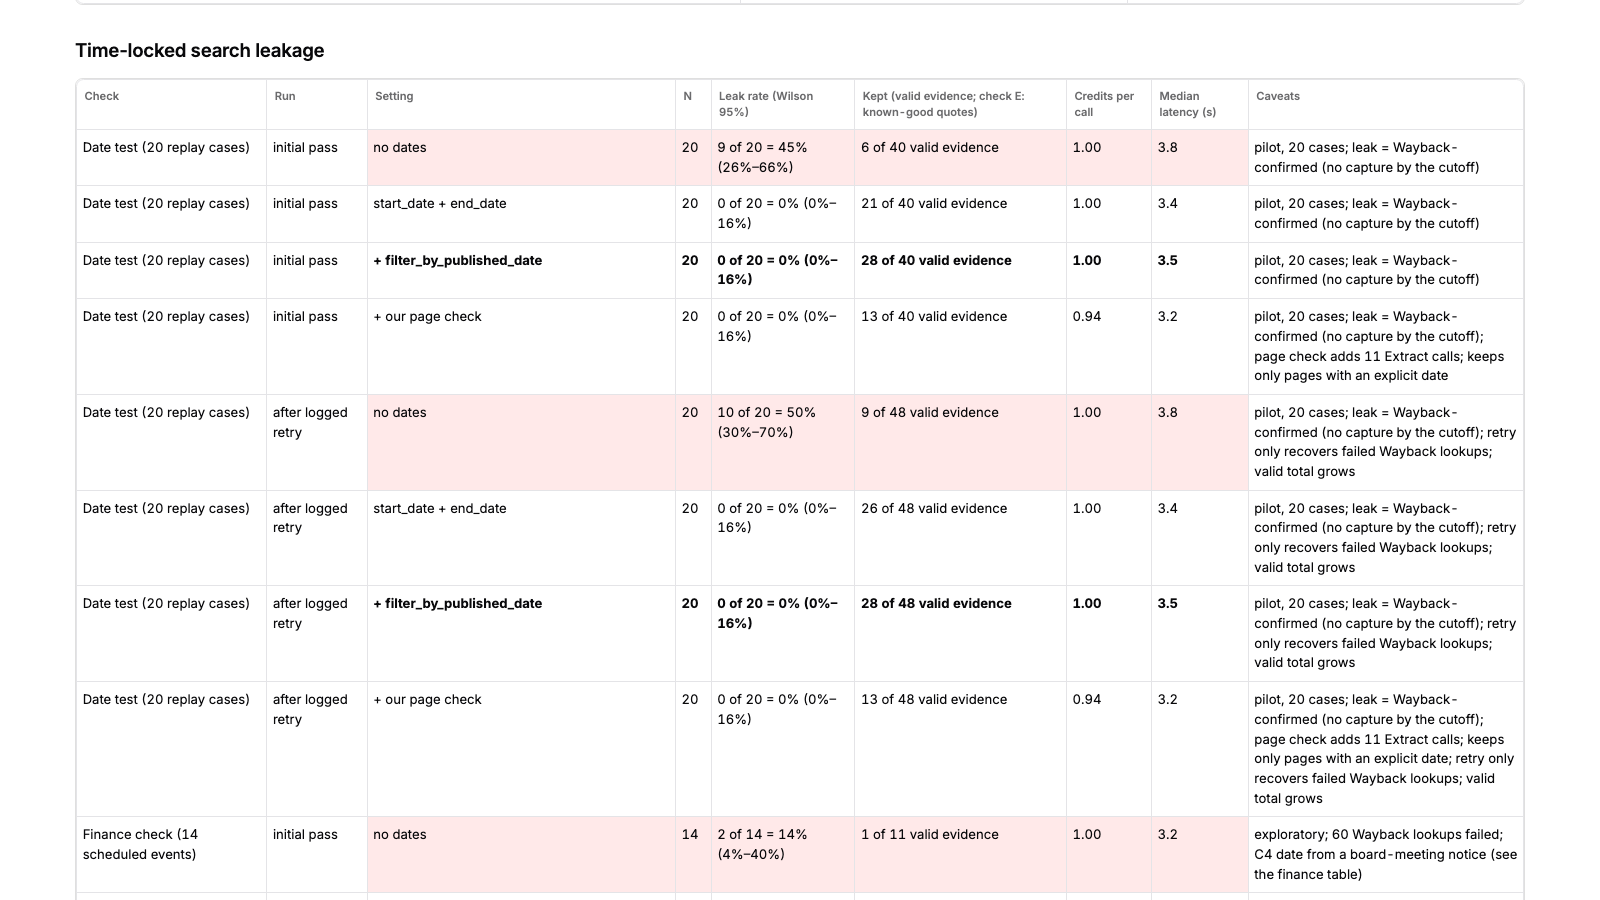
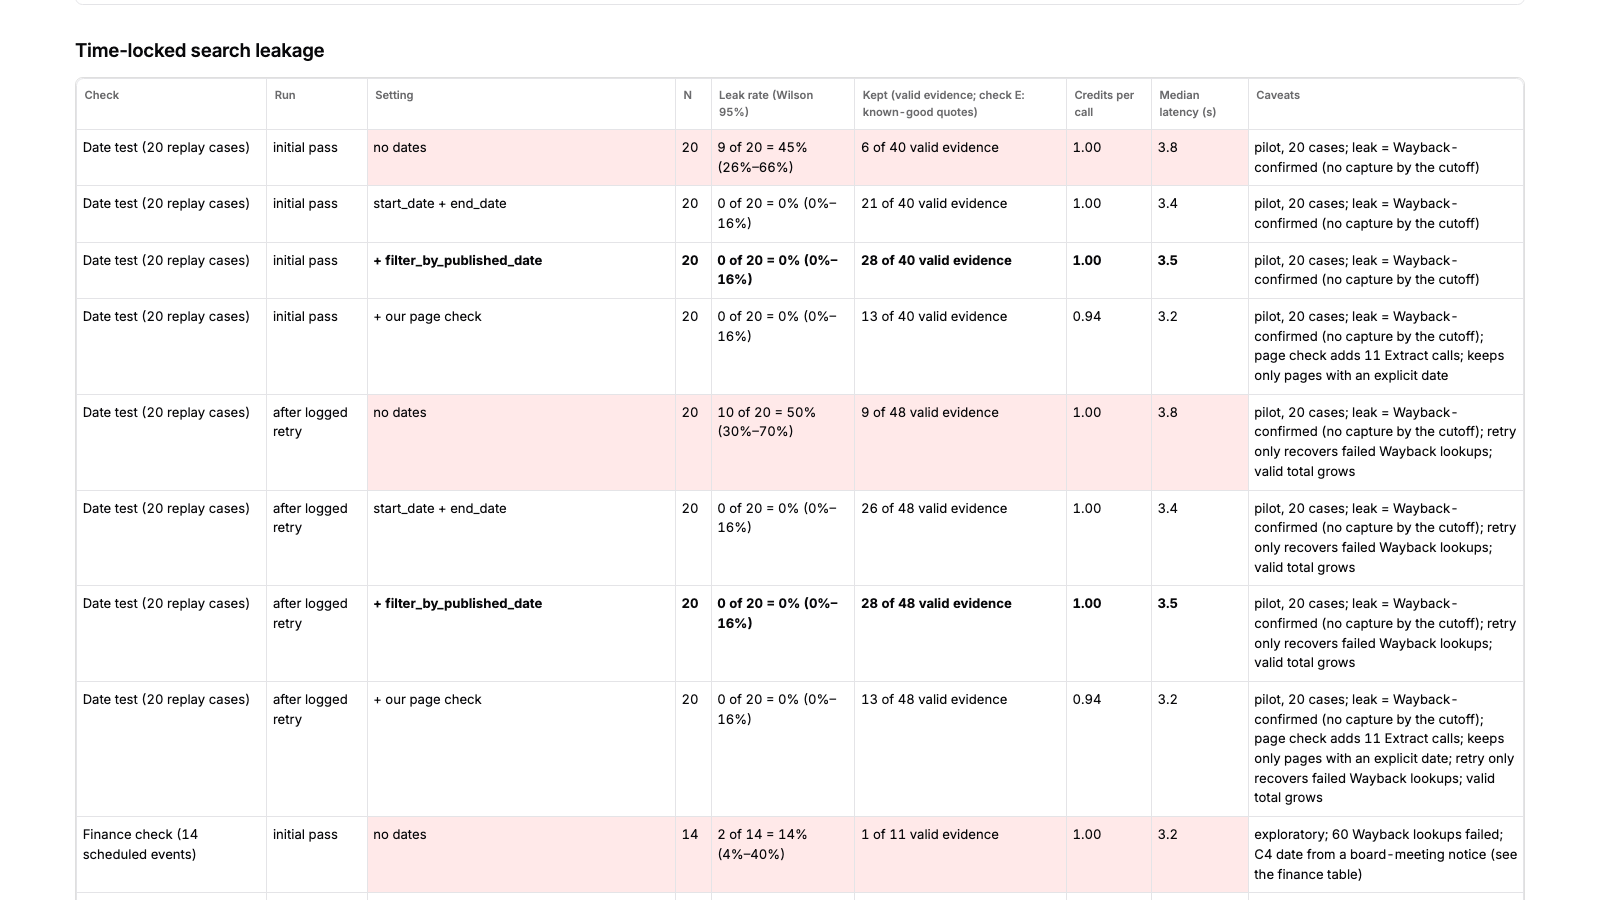
Display/docs fixes: Leak demo cost card shows the date test's own cost (12 of 40 valid evidence dropped, initial pass, results/date_field_test.json arm C) instead of check E; Devpost headline, short description and gallery caption reworded (pilot, after a logged archive retry; confirmed leak defined
No results file changed. New test: the hero cost card equals the date-test field, not check E.

diff --git a/app_pages/leak_demo.py b/app_pages/leak_demo.py
@@ -1,7 +1,7 @@
 """Leak demo (the home page): can a web search see the future? Past questions replayed as of a cutoff date, each
 searched with no time lock and with Tavily's time lock. Built only from saved results (results/leak_demo.json, made
 offline by tools/build_leak_demo.py from the date test and the finance check; totals from results/field_report.json
-and results/leakcheck_exact_match.json). The only API calls are the optional live mode, off unless RUN_LIVE_ENABLED."""
+and results/leakcheck_exact_match.json; the hero's cost from results/date_field_test.json). The only API calls are the optional live mode, off unless RUN_LIVE_ENABLED."""
 import re
 from datetime import date, timedelta
 
@@ -220,21 +220,31 @@ html, body {{ margin: 0; background: transparent; color: var(--ink); font: 500 1
 </script></body></html>"""
 
 
+DATE_TEST = "results/date_field_test.json"
+DATE_LOCKED_ARM = "C"                         # tools/build_leak_demo.py TESTS["date"]["locked"]
+
+
+def date_test_cost():
+    """The date test's own cost of the time lock, initial pass: valid evidence the locked arm dropped (not check E)."""
+    arm = read_json(DATE_TEST)["metrics"]["arms"][DATE_LOCKED_ARM]
+    return int(arm["valid_lost"]), int(arm["valid_total"])
+
+
 def hero(t):
-    """One titled row (date test, after retry): 'x/n → y/n' cases leaked, then the cost of the time lock (check E),
-    all from the results files, counted up once."""
+    """One titled row (date test): 'x/n → y/n' cases leaked (after retry), then the date test's own cost of the time
+    lock (initial pass), all from the results files, counted up once."""
     import html
-    d, s = t["date"], t["strictness"]
+    d = t["date"]
     o, k, n = int(d["open"]["retry"]), int(d["locked"]["retry"]), int(d["cases"])
-    missed, quotes = int(s["missed"]), int(s["quotes"])
+    missed, quotes = date_test_cost()
     leaked = "cases leaked (after retry)"
     st.iframe(HERO_HTML.format(
         font=HERO_FONT, js=ANIME_JS[0], sri=ANIME_JS[1], open=o, locked=k, n=n, missed=missed, quotes=quotes,
         title=html.escape(f"Date test · {n} past cases"),
         open_label=html.escape(f"{OPEN}: {leaked}"), locked_label=html.escape(f"{LOCKED}: {leaked}"),
-        cost_label="Cost: valid evidence dropped",
+        cost_label="Cost: valid evidence dropped (initial pass)",
         aria=html.escape(f"Date test, {n} past cases. {OPEN}: {o}/{n} {leaked}. {LOCKED}: {k}/{n}. "
-                         f"Cost: {missed} of {quotes} valid evidence dropped.")),
+                         f"Cost: {missed} of {quotes} valid evidence dropped (initial pass).")),
         height=HERO_HEIGHT)
 
 

diff --git a/tests/test_leak_demo.py b/tests/test_leak_demo.py
@@ -189,14 +189,31 @@ def test_web_titles_cannot_inject_markdown():
 # ---------- ui-polish / look: hero row, default examples, text badges ----------
 def test_hero_row_reads_the_results_file_and_is_not_repeated():
     at = page()
-    d, s = DATA["totals"]["date"], DATA["totals"]["strictness"]
+    d = DATA["totals"]["date"]
+    c = json.loads((ROOT / "results" / "date_field_test.json").read_text())["metrics"]["arms"]["C"]
     (frame,) = at.get("iframe")
     html = frame.proto.srcdoc
     assert f"Date test · {d['cases']} past cases" in html
     assert (f"No time lock: {d['open']['retry']}/{d['cases']} cases leaked (after retry). Tavily time lock: "
-            f"{d['locked']['retry']}/{d['cases']}. Cost: {s['missed']} of {s['quotes']} valid evidence dropped."
-            ) in html                              # the hero's accessible label
+            f"{d['locked']['retry']}/{d['cases']}. Cost: {c['valid_lost']} of {c['valid_total']} valid evidence "
+            "dropped (initial pass).") in html     # the hero's accessible label
     assert not any(m.value.startswith("**No time lock:") for m in at.markdown)
+
+
+def test_hero_cost_is_the_date_tests_own_field_not_check_e():
+    """The cost card on the date-test row shows the date test's valid evidence dropped (locked arm C, initial pass),
+    not check E's known-good quotes missed."""
+    import re
+    c = json.loads((ROOT / "results" / "date_field_test.json").read_text())["metrics"]["arms"]["C"]
+    s = DATA["totals"]["strictness"]
+    (frame,) = page().get("iframe")
+    card = re.search(r'id="cost"><div class="num">(\d+)/(\d+)</div><div class="label">([^<]+)<',
+                     frame.proto.srcdoc)
+    assert card and (int(card[1]), int(card[2])) == (c["valid_lost"], c["valid_total"])
+    assert card[3] == "Cost: valid evidence dropped (initial pass)"
+    if (s["missed"], s["quotes"]) != (c["valid_lost"], c["valid_total"]):
+        assert f"{s['missed']}/{s['quotes']}" not in card[0]
+    assert "C" == __import__("tools.build_leak_demo", fromlist=["TESTS"]).TESTS["date"]["locked"]
 
 
 def test_default_examples_follow_the_rule_f3_first_r1_out():

diff --git a/tests/test_aesthetic.py b/tests/test_aesthetic.py
@@ -91,11 +91,14 @@ def test_style_is_injected_once_and_takes_no_layout():
 # ---------- the hero ----------
 def test_hero_numbers_come_from_the_results_files():
     _, html = hero_html()
-    d, s = DATA["totals"]["date"], DATA["totals"]["strictness"]
+    d = DATA["totals"]["date"]
+    c = json.loads((ROOT / "results" / "date_field_test.json").read_text())["metrics"]["arms"]["C"]
     o, k, n = d["open"]["retry"], d["locked"]["retry"], d["cases"]
     assert f'<span id="leaked">{o}</span>/{n}' in html and f">{k}/{n}<" in html
     shown = re.findall(r"<span id=\"leaked\">(\d+)</span>/(\d+)|>(\d+)/(\d+)<", html)
-    assert shown == [(str(o), str(n), "", ""), ("", "", str(k), str(n)), ("", "", str(s["missed"]), str(s["quotes"]))]
+    # the cost card is the date test's own valid evidence dropped (locked arm C, initial pass), not check E
+    assert shown == [(str(o), str(n), "", ""), ("", "", str(k), str(n)),
+                     ("", "", str(c["valid_lost"]), str(c["valid_total"]))]
     # the same counts the Field Report reads (results/field_report.json, date test, after the logged retry)
     assert d["source"].startswith("results/field_report.json")
 

diff --git a/docs/devpost_draft.md b/docs/devpost_draft.md
@@ -6,8 +6,8 @@
 
 ## Headline
 <!-- headline:start -->
-Pre-registered pilot, no dates: 10 of 20 replay cases read a page that did not yet exist at the cutoff; with Tavily's dates and `filter_by_published_date`, 0 of 20.
-Reuse `timelocked_search`, `extract_as_of`, or the Colab leak check (your own Tavily key).
+Pilot, after a logged archive retry: no dates, 10 of 20 past cases kept a confirmed leak (page dated after the cutoff, no archive copy before it); Tavily's dates and `filter_by_published_date`, 0 of 20.
+Reuse: `timelocked_search`, `extract_as_of`, Colab leak check.
 <!-- headline:end -->
 
 ## Tagline
@@ -17,9 +17,10 @@ quote on its source page, and seals India's inflation forecast before the govern
 ## Short description
 <!-- short:start -->
 Can a search engine keep the past in the past? We measured Tavily's date controls on 20 replay cases
-(pilot, pre-registered). With no dates, 10 of 20 cases read a page that did not yet exist
-at the cutoff (Wilson 95% 30–70%); with `start_date`/`end_date` and `filter_by_published_date`,
-0 of 20 (0–16%), after a logged archive retry. The cost: the filter dropped
+(pilot; counts after a logged archive retry). With no dates, 10 of 20 cases kept a
+confirmed leak, a page dated after the cutoff with no archive copy before it (Wilson 95%
+30–70%); with `start_date`/`end_date` and `filter_by_published_date`, 0 of
+20 (0–16%). The cost: the filter dropped
 12 of 40 pieces of valid evidence. Search dates do not freeze page content: a page
 dated before the cutoff can be updated after it. Shadow CPI puts this to work: an AI agent searches with Tavily
 inside a time lock, checks each quote against the extracted page with NVIDIA Nemotron on Nebius Token Factory, lets
@@ -28,7 +29,7 @@ code compute India's October 2026 inflation nowcast, and seals it before the Min
 <!-- short:end -->
 
 ## The leak, measured
-- **Main result (date test, a pre-registered pilot; counts after the logged archive retry):** no dates, 10
+- **Main result (date test, a pilot with a pre-registered design; counts after the logged archive retry):** no dates, 10
   of 20 cases leaked (Wilson 95% 30–70%); `start_date`/`end_date` +
   `filter_by_published_date`, 0 of 20 (0–16%). Initial pass (the pre-registered result, shown as sensitivity):
   9 of 20 (26–66%) and 0 of 20 (0–16%); the retry only
@@ -83,7 +84,7 @@ the finance check returned a result dated after the cutoff; that review found 1 
 version leaks the outcome. What covers the gap, partly: our page-date check (kept 26 of
 59 filtered results in the date test; date-test valid evidence lost: 27 of
 40 with it, 12 with the filter alone); the drift monitor, which re-reads October radar
-pages daily (no drift run is committed yet, as of 28 Oct 2026); and Wayback Machine checks, with failed lookups retried and logged
+pages daily (14 of 62 radar pages had changed since they were saved (one run, 28 Oct 2026 IST)); and Wayback Machine checks, with failed lookups retried and logged
 (11 in the date test, 94 in the finance check).
 
 ## Who writes the search: model-written fields vs fixed templates, inside a time lock it cannot move
@@ -205,7 +206,7 @@ worked on the opening call, and both sizes sit behind one OpenAI-compatible endp
   next-working-day rule applies).
   Anyone can recompute the seal's `SHA-256` from the file at tag `seal-2026-10` (`verify.md`).
 - **Price Shock Radar** (exploratory, report only): announced price changes taking effect this month;
-  1 verified so far, 0 corroborated.
+  3 verified so far, 0 corroborated.
 - **Live build** with **Replay a saved run** (no API call, no credits).
 - **Chain of custody** from any number to its quote, page, Tavily request ID, response hash and seal; **`as_of()`**
   shows what was known on a past day.
@@ -240,7 +241,7 @@ start 10 days before the month, and v1's replay ran to month-end while the live 
 the score; a value-of-information score was dropped rather than tuned.
 A Hindi substring match ('rail' inside 'domestic') turned a Jharkhand power tariff into a 'Bihar rail' event. Our
 manual check caught it; the fix (whole-word matching, state from the page) removed the event, so the October radar
-has 1 event. Logged as rule changes `R2`–`R3`, with before and after.
+has 3 events. Logged as rule changes `R2`–`R3`, with before and after.
 Exploratory and post-hoc results are labelled where they appear and changed no scored verdict.
 
 ## Built with
@@ -254,8 +255,8 @@ Nebius retires the original IDs on 9 Nov 2026; from then, calls use Nebius's rec
 - Python
 - Streamlit
 
-Tavily usage as of 28 Oct 2026: 2,030 calls, 1,981 credits, 79% of dated results
-inside the requested window (5,454 of 6,872), median latency 4.0 s. Third-party notices:
+Tavily usage as of 28 Oct 2026: 2,073 calls, 2,021 credits, 79% of dated results
+inside the requested window (5,587 of 7,069), median latency 4.0 s. Third-party notices:
 `THIRD_PARTY_NOTICES.md`.
 
 ## Try it

diff --git a/README.md b/README.md
@@ -127,7 +127,7 @@ completely:
   27 of the date test's 40 pieces of valid evidence were lost (12 with the filter
   alone). It reads a page's date, not its edit history.
 - **The drift monitor** re-reads each October radar page with Extract once a day and compares it with the saved copy
-  ([`v2/DRIFT_PREREG.md`](v2/DRIFT_PREREG.md)): no drift run is committed yet, as of 28 Oct 2026.
+  ([`v2/DRIFT_PREREG.md`](v2/DRIFT_PREREG.md)): 14 of 62 radar pages had changed since they were saved (one run, 28 Oct 2026 IST).
 - **The Wayback Machine** shows whether a page existed by the cutoff; a leak counts only when it confirms one. Failed
   lookups were retried and logged (11 in the date test, 94 in the finance check). In
   the post-hoc review, 146 of 283 rows stayed unclear, partly because archive lookups were
@@ -349,8 +349,8 @@ made Hindi pages work. Details: [`FEEDBACK_NOTES.md`](FEEDBACK_NOTES.md).
   compare it with `sealed/2026-10.sha256` ([`verify.md`](verify.md)). After the release, the Archive page shows the
   miss and whether the official figure was inside the range.
 - **Price Shock Radar** (exploratory, report only; app page "October radar"): announced retail price changes taking
-  effect this month, found with Tavily before MoSPI publishes. So far 1 event verified,
-  0 corroborated, 70 of a 150-credit cap. It never changes the sealed call.
+  effect this month, found with Tavily before MoSPI publishes. So far 3 events verified,
+  0 corroborated, 95 of a 150-credit cap. It never changes the sealed call.
 - **Live build** with **Replay a saved run**: watch the number build one verified card at a time. Replays make no
   API call and cost no credits.
 - **Chain of custody:** from any number to its quote, page, page date, Tavily request ID, response hash and seal.
@@ -402,7 +402,7 @@ Jan–Sep 2026 replay, rules frozen before scoring ([`results/score_lock.json`](
   rather than tune it.
 - A Hindi substring match ('rail' inside 'domestic') turned a Jharkhand power tariff into a 'Bihar rail' event.
   Our manual check caught it; the fix (whole-word matching, state from the page) removed the event, so the October
-  radar has 1 event. Logged as rule changes `R2`–`R3`, with before and after
+  radar has 3 events. Logged as rule changes `R2`–`R3`, with before and after
   ([`v2/RADAR_PREREG.md`](v2/RADAR_PREREG.md)).
 
 More: [`docs/honest_limits.md`](docs/honest_limits.md), [`docs/frozen_rules.md`](docs/frozen_rules.md),
@@ -429,7 +429,7 @@ To run the pipeline, copy `.env.example` to `.env`, add the two keys, and start 
 `python tools/sync_doc_numbers.py` (template: [`docs/templates/README.md`](docs/templates/README.md)).
 
 Tavily usage so far (as of 28 Oct 2026, [`results/tavily_report_card.md`](results/tavily_report_card.md)):
-2,030 calls sent, 1,981 credits used (a 1,000-credit monthly plan plus 3,125
+2,073 calls sent, 2,021 credits used (a 1,000-credit monthly plan plus 3,125
 add-on credits), 79% of dated search results inside the requested window, median latency
 4.0 s.
 

diff --git a/docs/templates/devpost.md b/docs/templates/devpost.md
@@ -5,8 +5,8 @@
 
 ## Headline
 <!-- headline:start -->
-Pre-registered pilot, no dates: {{dt_nodates_retry}} of {{dt_cases}} replay cases read a page that did not yet exist at the cutoff; with Tavily's dates and `filter_by_published_date`, {{dt_dated_retry}} of {{dt_cases}}.
-Reuse `timelocked_search`, `extract_as_of`, or the Colab leak check (your own Tavily key).
+Pilot, after a logged archive retry: no dates, {{dt_nodates_retry}} of {{dt_cases}} past cases kept a confirmed leak (page dated after the cutoff, no archive copy before it); Tavily's dates and `filter_by_published_date`, {{dt_dated_retry}} of {{dt_cases}}.
+Reuse: `timelocked_search`, `extract_as_of`, Colab leak check.
 <!-- headline:end -->
 
 ## Tagline
@@ -16,9 +16,10 @@ quote on its source page, and seals India's inflation forecast before the govern
 ## Short description
 <!-- short:start -->
 Can a search engine keep the past in the past? We measured Tavily's date controls on {{dt_cases}} replay cases
-(pilot, pre-registered). With no dates, {{dt_nodates_retry}} of {{dt_cases}} cases read a page that did not yet exist
-at the cutoff (Wilson {{wilson}} {{dt_nodates_retry_w}}); with `start_date`/`end_date` and `filter_by_published_date`,
-{{dt_dated_retry}} of {{dt_cases}} ({{dt_dated_retry_w}}), after a logged archive retry. The cost: the filter dropped
+(pilot; counts after a logged archive retry). With no dates, {{dt_nodates_retry}} of {{dt_cases}} cases kept a
+confirmed leak, a page dated after the cutoff with no archive copy before it (Wilson {{wilson}}
+{{dt_nodates_retry_w}}); with `start_date`/`end_date` and `filter_by_published_date`, {{dt_dated_retry}} of
+{{dt_cases}} ({{dt_dated_retry_w}}). The cost: the filter dropped
 {{dt_lost_filter}} of {{dt_valid_total}} pieces of valid evidence. Search dates do not freeze page content: a page
 dated before the cutoff can be updated after it. Shadow CPI puts this to work: an AI agent searches with Tavily
 inside a time lock, checks each quote against the extracted page with NVIDIA Nemotron on Nebius Token Factory, lets
@@ -27,7 +28,7 @@ code compute India's {{live_month}} inflation nowcast, and seals it before the M
 <!-- short:end -->
 
 ## The leak, measured
-- **Main result (date test, a pre-registered pilot; counts after the logged archive retry):** no dates, {{dt_nodates_retry}}
+- **Main result (date test, a pilot with a pre-registered design; counts after the logged archive retry):** no dates, {{dt_nodates_retry}}
   of {{dt_cases}} cases leaked (Wilson {{wilson}} {{dt_nodates_retry_w}}); `start_date`/`end_date` +
   `filter_by_published_date`, {{dt_dated_retry}} of {{dt_cases}} ({{dt_dated_retry_w}}). Initial pass (the pre-registered result, shown as sensitivity):
   {{dt_nodates}} of {{dt_cases}} ({{dt_nodates_w}}) and {{dt_dated}} of {{dt_cases}} ({{dt_dated_w}}); the retry only

diff --git a/docs/templates/gallery.md b/docs/templates/gallery.md
@@ -7,9 +7,9 @@ Four images for the Devpost gallery (`1600x900` each). The two app shots and bot
 ## The leak table
 ![Field Report: time-locked search leakage](1_leak_table.png)
 
-**Can a search see the future?** Date test (pre-registered pilot, {{dt_cases}} replay cases): with no dates,
-{{dt_nodates_retry}} of {{dt_cases}} cases read a page that did not yet exist at the cutoff (Wilson {{wilson}}
-{{dt_nodates_retry_w}}; {{dt_nodates}} on the initial pass); with `start_date`/`end_date` and
+**Can a search see the future?** Date test (pilot, {{dt_cases}} past cases, counts after a logged archive retry):
+with no dates, {{dt_nodates_retry}} of {{dt_cases}} cases kept a confirmed leak, a page dated after the cutoff with no
+archive copy on or before it (Wilson {{wilson}} {{dt_nodates_retry_w}}; {{dt_nodates}} on the initial pass); with `start_date`/`end_date` and
 `filter_by_published_date`, {{dt_dated_retry}} of {{dt_cases}} ({{dt_dated_retry_w}}). The cost: the filter dropped
 {{dt_lost_filter}} of {{dt_valid_total}} pieces of valid evidence (initial pass). Red rows: no dates; bold rows:
 Tavily's time lock. App page: Field Report. Source: `results/field_report.json`.

diff --git a/docs/gallery/README.md b/docs/gallery/README.md
@@ -8,9 +8,9 @@ Four images for the Devpost gallery (`1600x900` each). The two app shots and bot
 ## The leak table
 ![Field Report: time-locked search leakage](1_leak_table.png)
 
-**Can a search see the future?** Date test (pre-registered pilot, 20 replay cases): with no dates,
-10 of 20 cases read a page that did not yet exist at the cutoff (Wilson 95%
-30–70%; 9 on the initial pass); with `start_date`/`end_date` and
+**Can a search see the future?** Date test (pilot, 20 past cases, counts after a logged archive retry):
+with no dates, 10 of 20 cases kept a confirmed leak, a page dated after the cutoff with no
+archive copy on or before it (Wilson 95% 30–70%; 9 on the initial pass); with `start_date`/`end_date` and
 `filter_by_published_date`, 0 of 20 (0–16%). The cost: the filter dropped
 12 of 40 pieces of valid evidence (initial pass). Red rows: no dates; bold rows:
 Tavily's time lock. App page: Field Report. Source: `results/field_report.json`.
